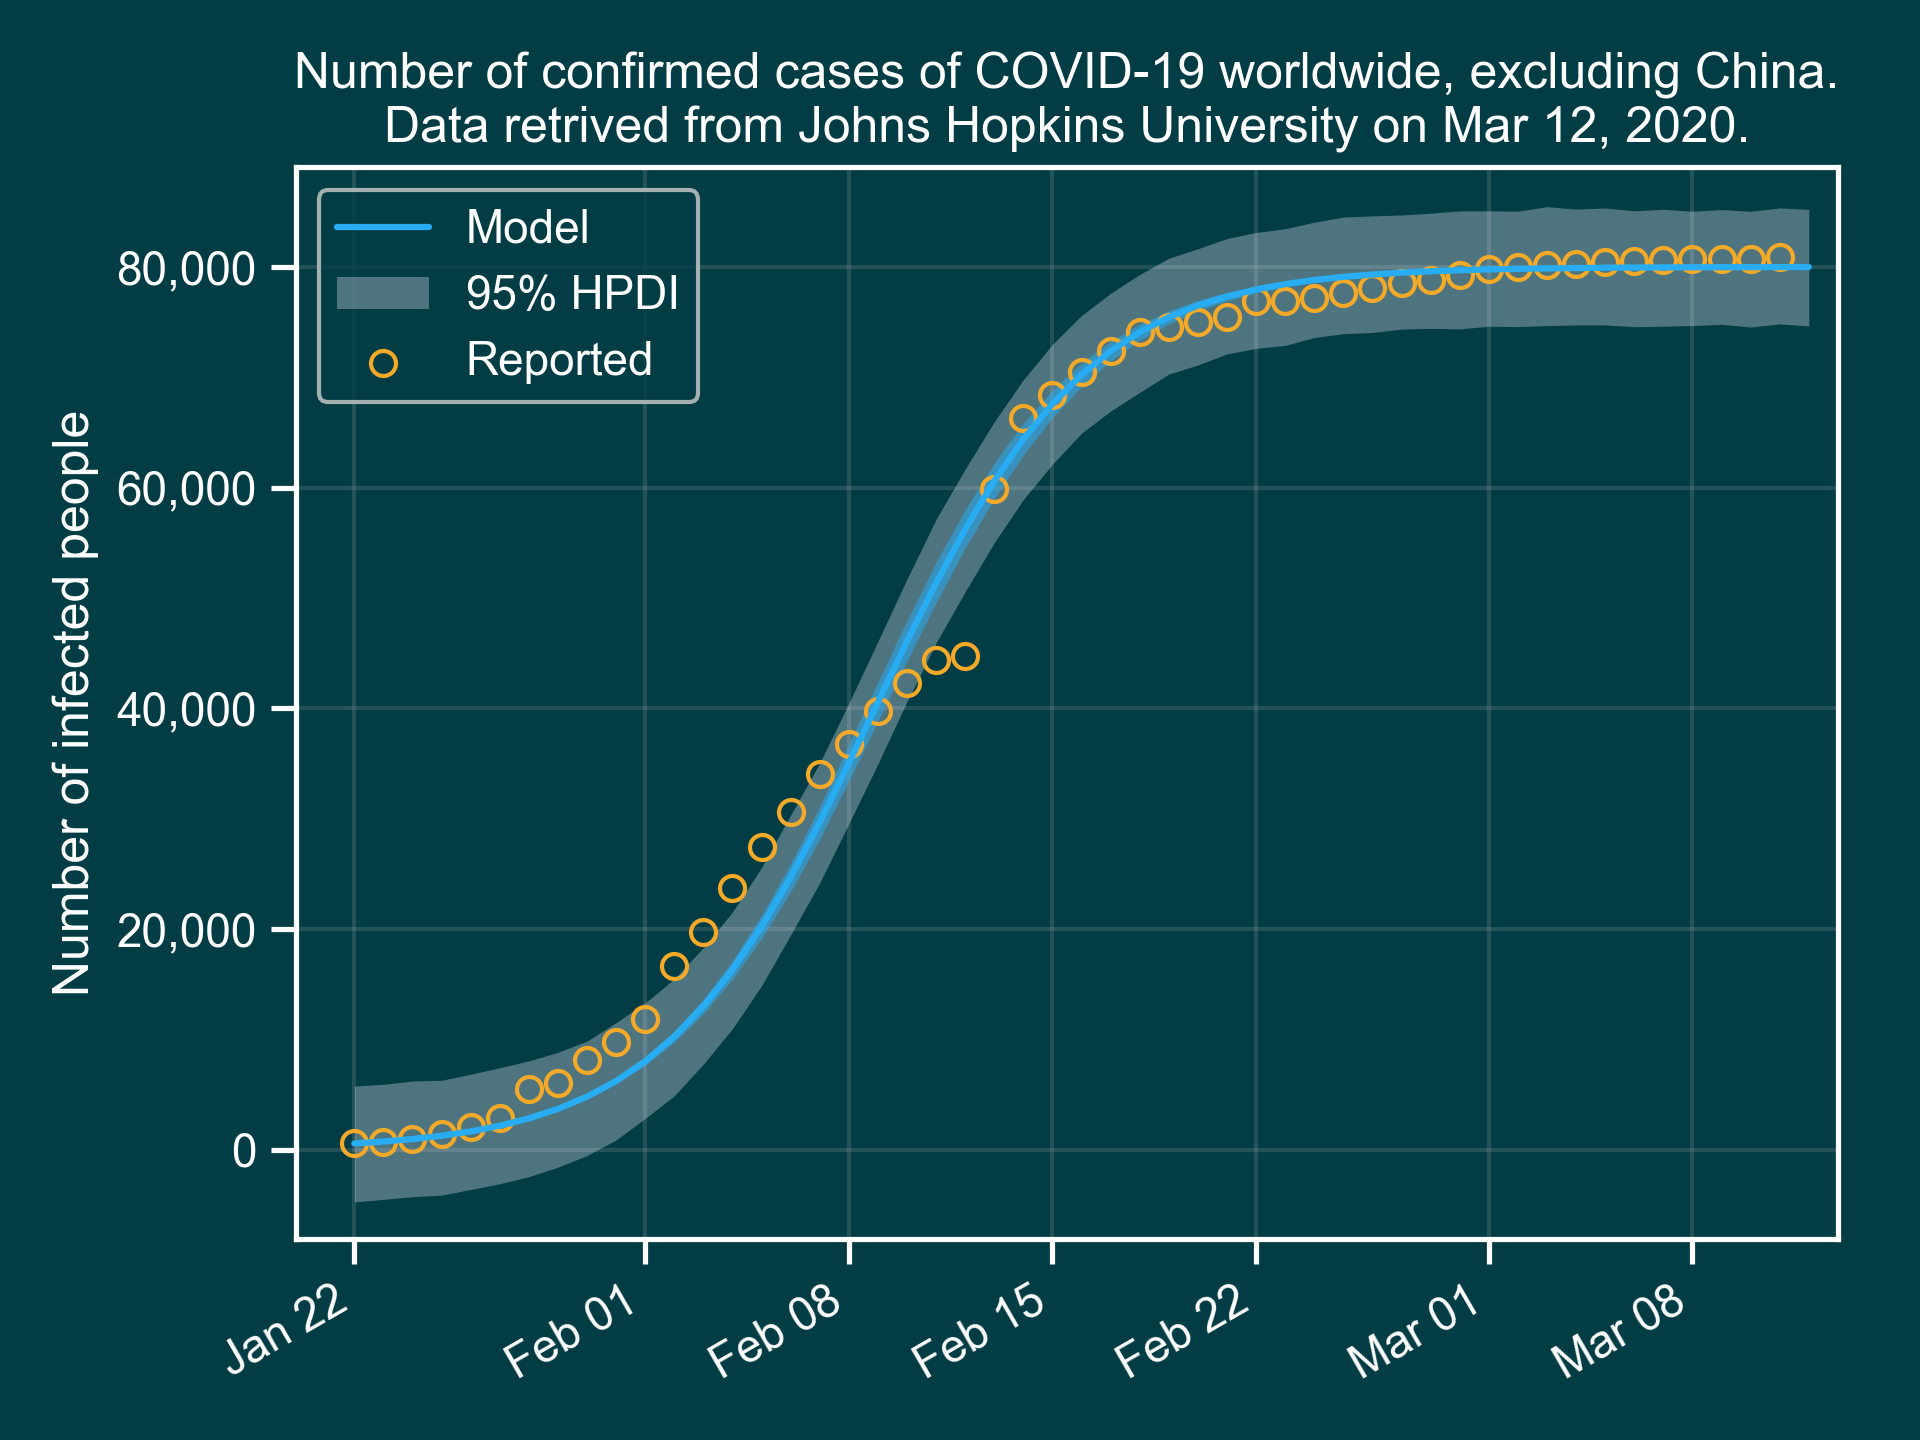
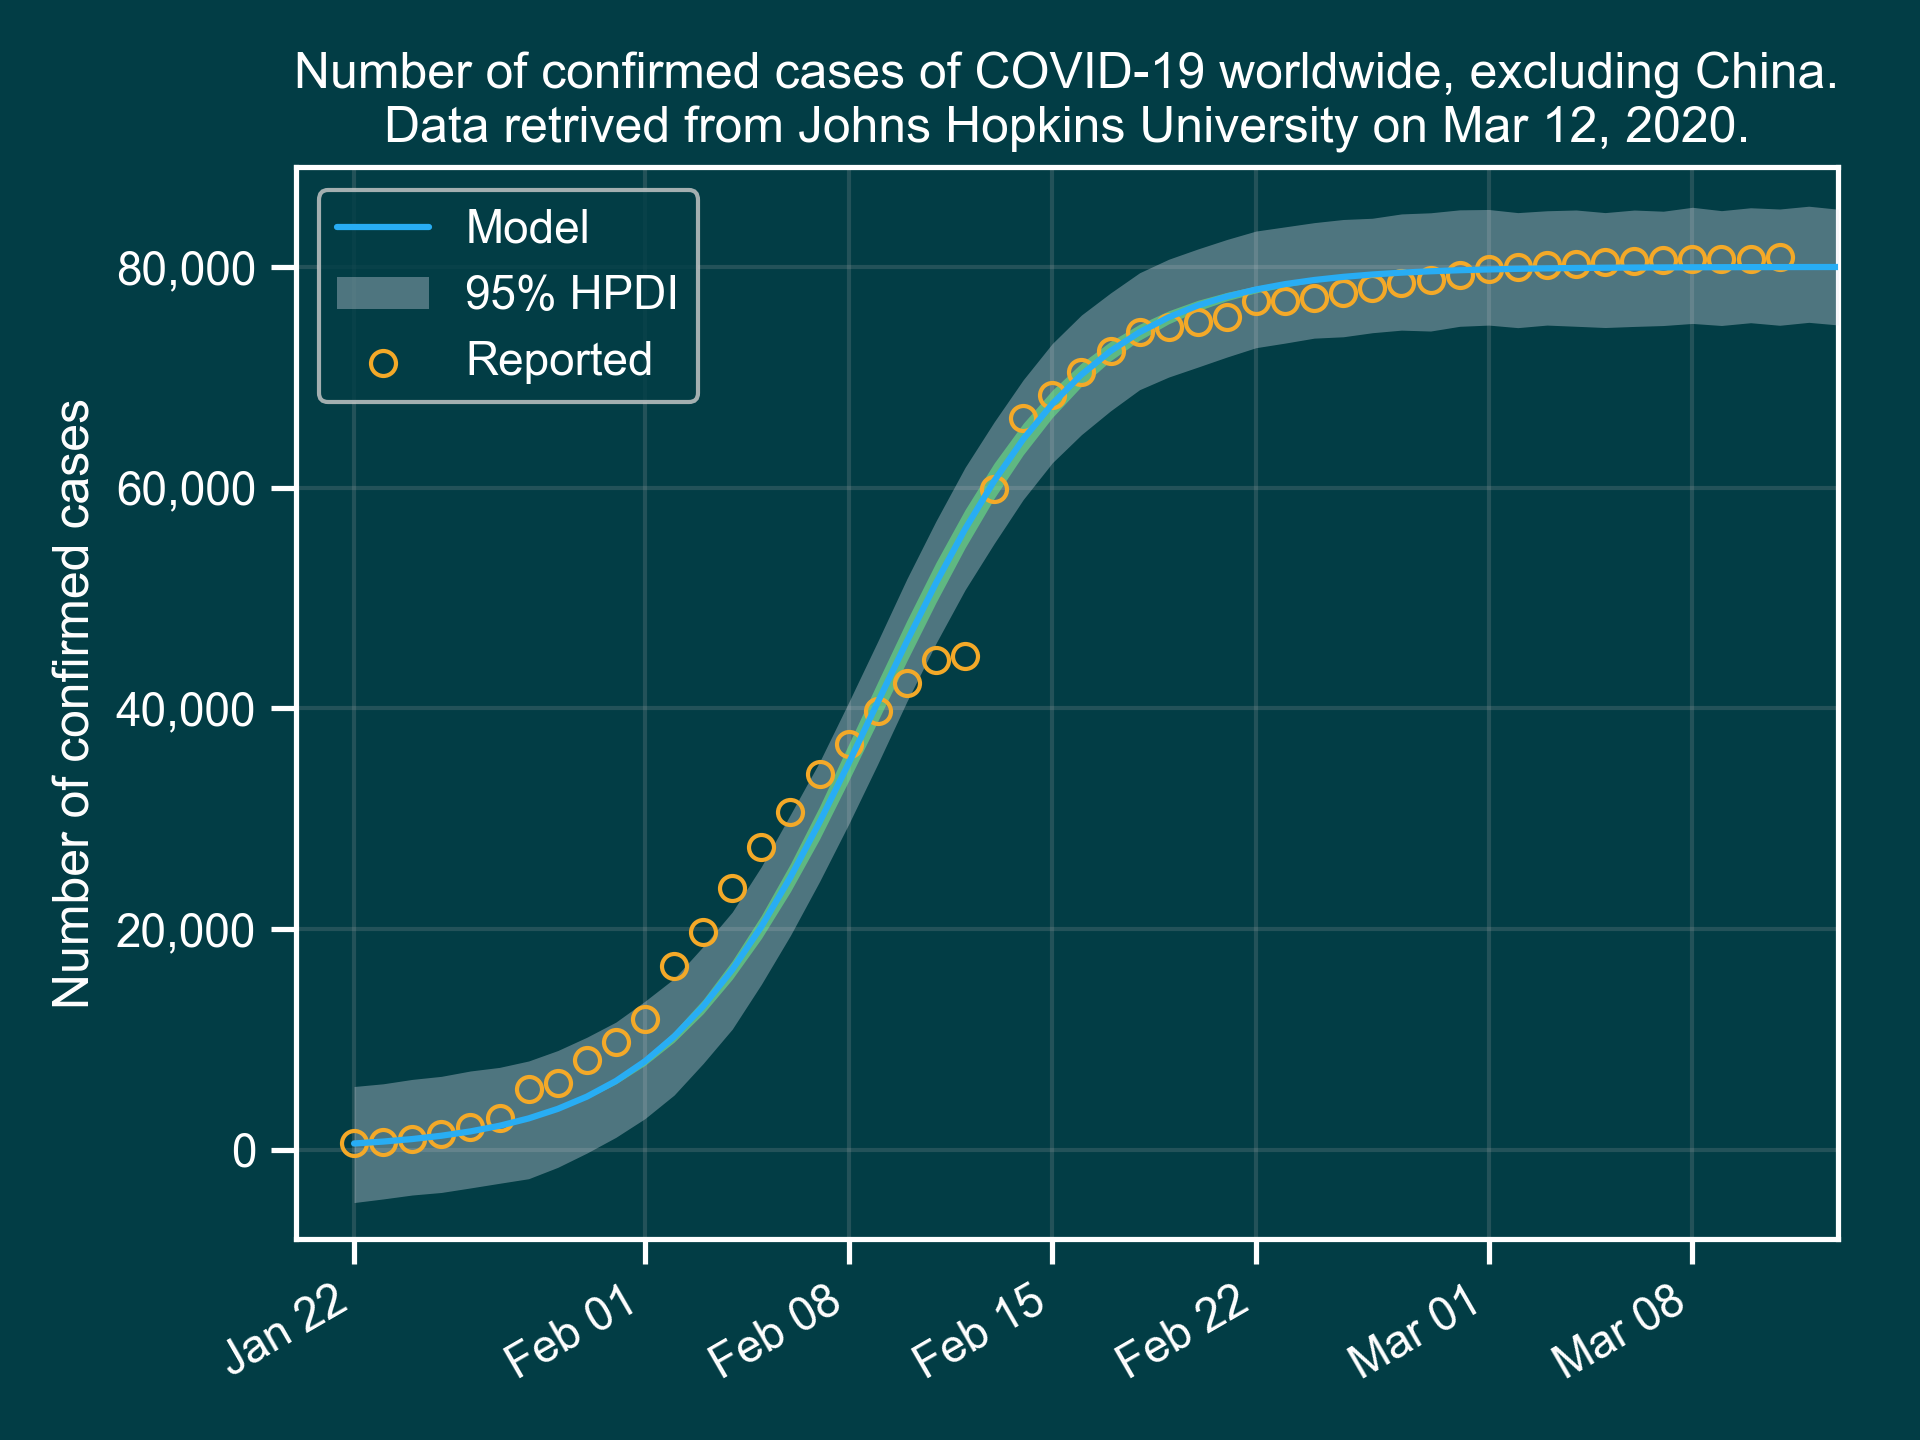
Work

diff --git a/code/run_model.py b/code/run_model.py
@@ -150,7 +150,7 @@ def load_data(settings):
     list of datetime:
         Days corresponding to the confirmed cases
     list of float:
-        Number of people infected (confirmed).
+        Cumulative number of people infected (confirmed).
     """
 
     data_path = settings.csv_path
@@ -186,7 +186,7 @@ def data_for_stan(cases, settings):
     ----------
 
     list of float:
-        Number of people infected (confirmed).
+        Cumulative number of people infected (confirmed).
 
     Returns
     -------
@@ -276,7 +276,7 @@ def model_function(x, k, q, b):
     Returns
     -------
     numpy.ndarray:
-        Number of infected people
+        Cumulative number of infected people
     """
 
     return float(k) / (1 + q * np.exp(-(b * x)))
@@ -414,7 +414,7 @@ def plot_data_and_model(fit, dates, cases, settings):
     )
 
     ax.set_title(title)
-    ax.set_ylabel("Number of infected people")
+    ax.set_ylabel("Number of confirmed cases")
 
     ax.grid(color=settings.grid_color, linewidth=1,
             alpha=settings.grid_alpha)
